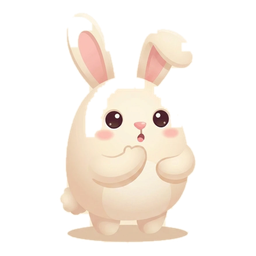
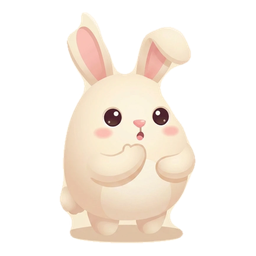
구버전 저장 데이터 복원 버그 수정 + think 토끼 배경 제거 재작업
1. 이어서 하기가 NaN 으로 무너지던 문제
   초기 v1 저장분의 inProgress 에는 lives/hints/boosts 가 없다. 복원부가
   `restore ? restore.lives : MAX_LIVES` 로 읽어 undefined 를 그대로 넣는 바람에
   점수 HUD 가 "NaN 점", 당근은 전부 소진된 그림, 오답 때는
   Math.max(0, undefined-1) = NaN 이라 lives === 0 이 영영 성립하지 않아
   게임오버가 뜨지 않았다. 즉 당근을 다 써도 판이 끝나지 않는다.

   - countOr() 로 필드별 기본값 + Number.isFinite 검증 + 0~max 클램프
   - migrateSave() 를 Store.load() 에 붙여 읽는 시점에 현행 스키마로 올린다
     (cleared 기록, 망가진 inProgress, 잘못된 타입까지 같이 정리)

2. assets/rabbit_think.png 재작업
   머리 오른쪽이 배경과 RGB 가 같아(거리 1~2) 윤곽이 45px 가까이 끊긴다.
   T_ART=8 로는 그 구간의 얇은 테두리(5~8)마저 놓쳐 배경 채우기가 머리 안으로
   새어 들어갔고, 정사각 커널로 크게 여미면 이번엔 가장자리에 계단이 남았다.
   cutout.py 를 T_ART=5 + 가우시안(등방) 모폴로지로 바꿔 원본에서 다시 뽑았다.
   기존 rabbit/jump/sad 는 원본이 없어 재현·재검증이 안 되므로 건드리지 않았다.

3. rabbit_sleep.png / rabbit_think.png 를 서비스워커 프리캐시 목록과
   배포 워크플로의 필수 파일 검사에 추가

Claude-Session: https://claude.ai/code/session_01SZHmXiEy2UkRznkySfUUhd

diff --git a/index.html b/index.html
@@ -1260,6 +1260,7 @@ const Store = {
       const raw = localStorage.getItem(STORE_KEY);
       if (raw) this.data = Object.assign(this.data, JSON.parse(raw));
     } catch (e) { /* 저장소 접근 불가 — 세션 한정으로 진행 */ }
+    this.data = migrateSave(this.data);
     return this.data;
   },
   save() {
@@ -1270,6 +1271,55 @@ const Store = {
     this.save();
   },
 };
+
+/**
+ * 저장된 개수 값 하나를 믿을 수 있는 숫자로 만든다.
+ * 없으면(undefined/null) 기본값, 숫자가 아니면(NaN·문자열·Infinity) 기본값,
+ * 범위를 벗어나면 0~max 로 자른다.
+ */
+function countOr(value, max, fallback) {
+  const n = value ?? fallback;
+  return Number.isFinite(n) ? Math.min(max, Math.max(0, Math.round(n))) : fallback;
+}
+
+/**
+ * 구버전 저장분을 현행 스키마로 끌어올린다.
+ *
+ * 초기 v1 저장분의 inProgress 에는 lives/hints/boosts 가 없다. 그대로 복원하면
+ * G.lives 가 undefined 가 되어 ①점수가 NaN 이 되고 ②당근이 전부 사라진 것처럼
+ * 그려지며 ③오답 때 Math.max(0, undefined - 1) = NaN 이라 lives === 0 이
+ * 영영 성립하지 않아 게임오버가 뜨지 않는다. 읽어들이는 시점에 한 번 메워 둔다.
+ */
+function migrateSave(data) {
+  const d = (data && typeof data === 'object') ? data : {};
+  const out = {
+    cleared: (d.cleared && typeof d.cleared === 'object') ? d.cleared : {},
+    lastLevel: typeof d.lastLevel === 'string' ? d.lastLevel : null,
+    inProgress: null,
+    tutorialDone: !!d.tutorialDone,
+    sound: d.sound !== false,
+  };
+
+  for (const [id, rec] of Object.entries(out.cleared)) {
+    if (!rec || typeof rec !== 'object') { delete out.cleared[id]; continue; }
+    rec.time = countOr(rec.time, Infinity, 0);
+    rec.lives = countOr(rec.lives, MAX_LIVES, MAX_LIVES);
+    rec.score = countOr(rec.score, Infinity, 0);
+  }
+
+  const ip = d.inProgress;
+  if (ip && typeof ip === 'object' && typeof ip.levelId === 'string' && Array.isArray(ip.grid)) {
+    out.inProgress = {
+      levelId: ip.levelId,
+      grid: ip.grid.map((row) => (Array.isArray(row) ? row.slice() : [])),
+      lives: countOr(ip.lives, MAX_LIVES, MAX_LIVES),
+      hints: countOr(ip.hints, HINTS_PER_LEVEL, HINTS_PER_LEVEL),
+      boosts: countOr(ip.boosts, BOOSTS_PER_LEVEL, BOOSTS_PER_LEVEL),
+      elapsed: countOr(ip.elapsed, Infinity, 0),
+    };
+  }
+  return out;
+}
 
 /* ==========================================================================
  * 4. 논리 솔버 (힌트 엔진)
@@ -1665,12 +1715,14 @@ function startLevel(index, restore) {
   G.level = lv; G.index = index;
   G.n = lv.size; G.regions = lv.regions; G.solution = lv.solution;
   G.colors = assignRegionColors(lv.size, lv.regions);   // 맞닿은 영역끼리 색이 겹치지 않게
-  G.grid = restore ? restore.grid.map((r) => r.slice())
-                   : Array.from({ length: G.n }, () => new Array(G.n).fill(0));
-  G.lives = restore ? restore.lives : MAX_LIVES;
-  G.hints = restore ? restore.hints : HINTS_PER_LEVEL;
-  G.boosts = restore ? restore.boosts : BOOSTS_PER_LEVEL;
-  G.elapsed = restore ? (restore.elapsed || 0) : 0;
+  G.grid = (restore && Array.isArray(restore.grid))
+    ? restore.grid.map((r) => r.slice())
+    : Array.from({ length: G.n }, () => new Array(G.n).fill(0));
+  // 필드별로 채운다 — 구버전 저장분엔 lives/hints/boosts 자체가 없다
+  G.lives = countOr(restore?.lives, MAX_LIVES, MAX_LIVES);
+  G.hints = countOr(restore?.hints, HINTS_PER_LEVEL, HINTS_PER_LEVEL);
+  G.boosts = countOr(restore?.boosts, BOOSTS_PER_LEVEL, BOOSTS_PER_LEVEL);
+  G.elapsed = countOr(restore?.elapsed, Infinity, 0);
   G.history = []; G.finished = false; G.hintCells = [];
 
   $('gmName').textContent = `레벨 ${index + 1}`;

diff --git a/sw.js b/sw.js
@@ -22,6 +22,8 @@ const SHELL = [
   './assets/rabbit.png',
   './assets/rabbit_jump.png',
   './assets/rabbit_sad.png',
+  './assets/rabbit_sleep.png',
+  './assets/rabbit_think.png',
   './assets/icon-192.png',
   './assets/icon-512.png',
   './assets/fonts/jua.woff2',

diff --git a/tools/cutout.py b/tools/cutout.py
@@ -11,20 +11,42 @@
   3) 테두리에서 도달할 수 없는 투명 영역 = 실루엣 내부 -> 채운다
   4) 부풀린 만큼 다시 깎아 원래 윤곽으로 되돌린다 (= 모폴로지 클로징)
 이러면 몸 안쪽이 배경과 같은 색이어도 구멍이 뚫리지 않는다.
+
+think 포즈에서 두 가지를 고쳤다.
+  · 머리 오른쪽은 배경과 RGB 가 아예 같아서(거리 1~2) 윤곽이 45px 가까이 끊긴다.
+    T_ART=8 로는 그 구간의 얇은 테두리(거리 5~8)마저 놓쳐 배경 채우기가
+    머리 안으로 새어 들어갔다. T_ART 를 5 로 낮춰 테두리를 살리고,
+    SEAL 을 끊긴 길이에 맞게 키웠다.
+  · 부풀리기·깎기를 정사각 커널(MaxFilter/MinFilter)로 하면 크게 잡을수록
+    가장자리에 계단 자국이 남는다. 가우시안 블러 + 문턱값으로 바꿨다.
+    블러는 등방이라 커널 방향이 없고, 그래서 어느 각도에서도 매끈하다.
+
+기존 rabbit / rabbit_jump / rabbit_sad 는 예전 설정(T_ART=8, 정사각 SEAL=6)으로
+이미 깨끗하게 뽑혀 커밋돼 있다. 원본이 저장소에 없어 재현·재검증이 불가능하므로
+그 셋은 다시 만들지 않았다. 다른 그림을 새로 넣을 땐 --t-art / --seal 로 맞춘다.
 """
-import sys
+import argparse
 from collections import deque
 from PIL import Image, ImageFilter
 
 WORK = 512
-T_ART = 8.0        # 배경 노이즈(5.5)보다는 위, 윤곽선(10~16)보다는 아래
-SEAL = 6           # 끊긴 윤곽을 잇는 반경 (px, WORK 기준)
+T_ART = 5.0        # 배경 노이즈(최대 4.2)보다는 위, 가장 흐린 윤곽(5~8)보다는 아래
+SEAL = 9           # 끊긴 윤곽을 잇는 반경 (px, WORK 기준)
+DILATE_LEVEL = 40  # 블러 결과를 자르는 문턱 — 낮을수록 많이 부푼다
+ERODE_LEVEL = 215  # 높을수록 많이 깎인다 (부풀린 만큼 되돌리는 값)
 
 
-def cutout(src, dst, size=256, pad_ratio=0.05):
+def _reshape(mask, sigma, level):
+    """블러 + 문턱값 = 원형 팽창/침식. 정사각 커널과 달리 계단 자국이 없다."""
+    return mask.filter(ImageFilter.GaussianBlur(sigma)).point(
+        lambda v: 255 if v >= level else 0)
+
+
+def cutout(src, dst, size=256, pad_ratio=0.05, t_art=T_ART, seal=SEAL):
     im = Image.open(src).convert('RGB').resize((WORK, WORK), Image.LANCZOS)
     w, h = im.size
-    px = im.load()
+    # 배경 노이즈를 살짝 눌러 둔다 — 흐린 윤곽과 노이즈의 간격을 벌린다
+    px = im.filter(ImageFilter.GaussianBlur(1.0)).load()
 
     edge = []
     for x in range(0, w, 2):
@@ -41,10 +63,10 @@ def cutout(src, dst, size=256, pad_ratio=0.05):
     ap = art.load()
     for y in range(h):
         for x in range(w):
-            if dist(px[x, y]) >= T_ART:
+            if dist(px[x, y]) >= t_art:
                 ap[x, y] = 255
-    art = art.filter(ImageFilter.MaxFilter(2 * SEAL + 1))
-    ap = art.load()
+    sealed = _reshape(art, seal, DILATE_LEVEL)
+    ap = sealed.load()
 
     # 3) 바깥에서 못 닿는 투명 영역 = 내부 -> 채운다
     seen = bytearray(w * h)
@@ -72,8 +94,8 @@ def cutout(src, dst, size=256, pad_ratio=0.05):
             sp[x, y] = 0 if seen[y * w + x] else 255
 
     # 4) 부풀린 만큼 되돌리고 가장자리 정리
-    solid = solid.filter(ImageFilter.MinFilter(2 * SEAL + 1))
-    solid = solid.filter(ImageFilter.GaussianBlur(1.0))
+    solid = _reshape(solid, seal, ERODE_LEVEL)
+    solid = solid.filter(ImageFilter.GaussianBlur(0.8))
 
     out = im.convert('RGBA')
     out.putalpha(solid)
@@ -92,4 +114,11 @@ def cutout(src, dst, size=256, pad_ratio=0.05):
 
 
 if __name__ == '__main__':
-    cutout(sys.argv[1], sys.argv[2])
+    ap_ = argparse.ArgumentParser(description='크림 배경 그림에서 토끼만 오려낸다')
+    ap_.add_argument('src')
+    ap_.add_argument('dst')
+    ap_.add_argument('--size', type=int, default=256)
+    ap_.add_argument('--t-art', type=float, default=T_ART, help='테두리로 볼 최소 색 거리')
+    ap_.add_argument('--seal', type=int, default=SEAL, help='끊긴 윤곽을 잇는 반경(px)')
+    a = ap_.parse_args()
+    cutout(a.src, a.dst, size=a.size, t_art=a.t_art, seal=a.seal)
